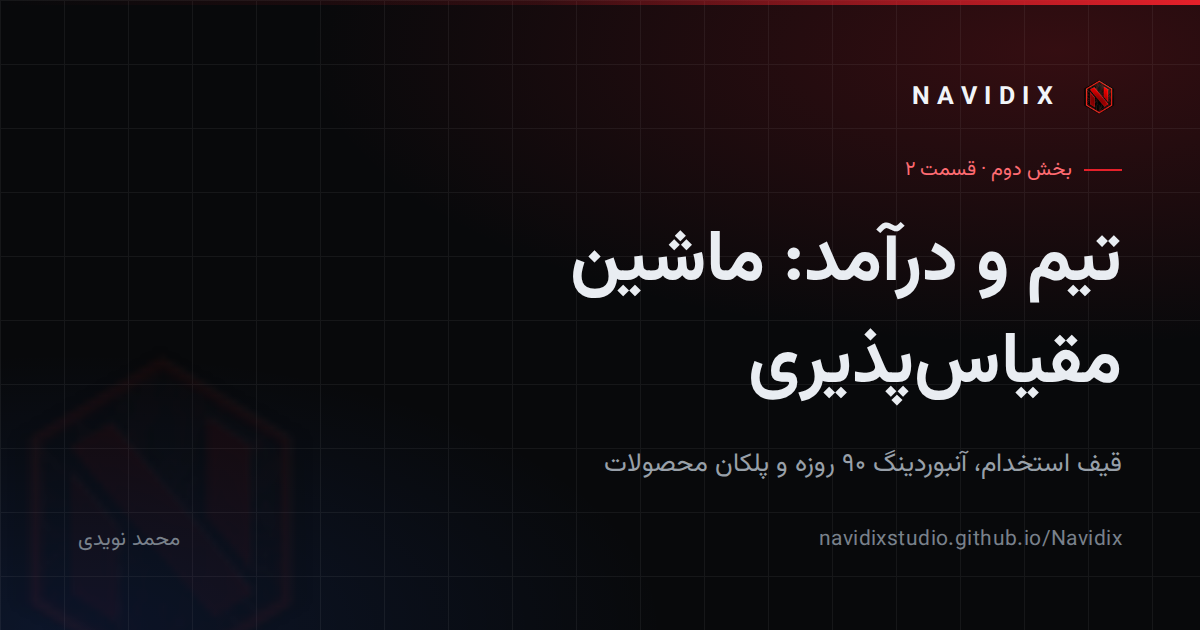
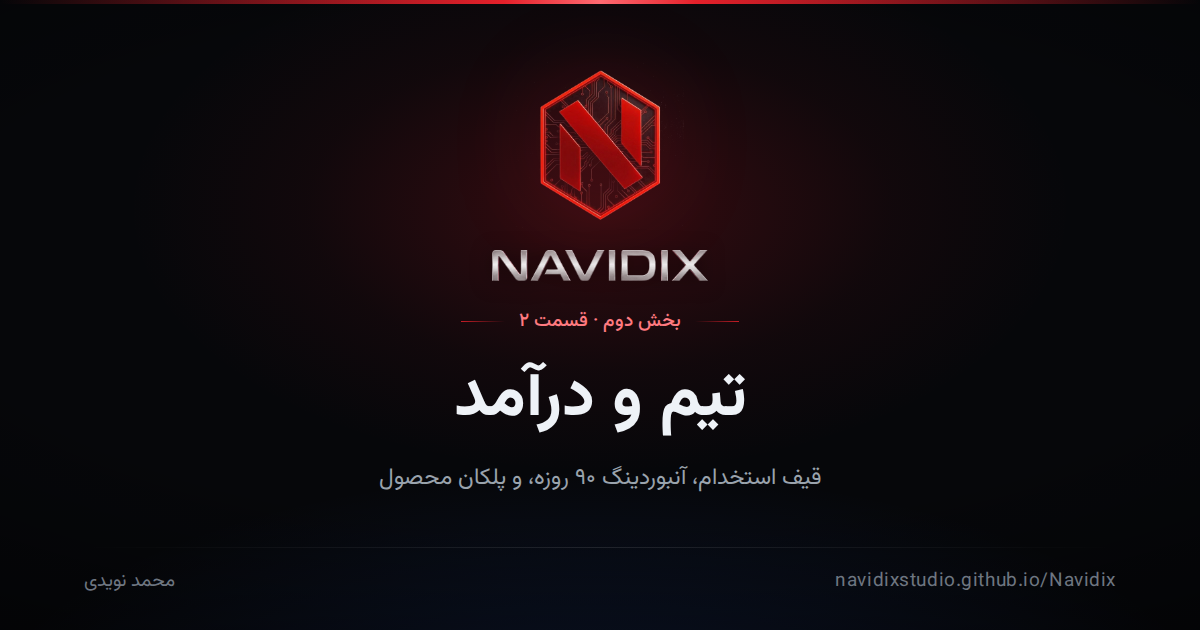
Rebuild the share card around the emblem, and tint the sky
Share card. The old card put a small mark in the corner; the emblem is the
strongest thing the brand owns, so it now carries the card — centred and
large, the logotype beneath it, the words last.

Both brand PNGs ship as glow-on-black with no alpha. Screen-blending them
onto the card lifted their dark ground into a visible rectangle around each
one, so they are instead converted once to real transparency: alpha taken
from the brightest channel, colour un-premultiplied by it so nothing turns
muddy, and the dead margin cropped away — which also means the lockup is
spaced from the artwork rather than from the PNG's padding. The generator
asserts the text block keeps clear of the footer rule, so a long title can
no longer quietly collide with it.

Copy: the home card and its preview text now lead with what the studio
makes rather than restating its name.

Sky. The field already had a red tier, but it was washed toward white and
sat at 2.2%, and point size is divided by distance in the shader — so a
tinted star under about aSize 4 landed sub-pixel and its hue never reached
the screen. Measuring the buffer directly: zero ember stars were drawing
above 1.5px, and eleven blue ones.

So the fix is not more stars. Roughly one star in twenty is now a saturated
ember and one in twenty a deep blue, and rather than lifting all of them —
which would only add coloured noise — about one in six of those is promoted
[…]

diff --git a/index.html b/index.html
@@ -4,7 +4,7 @@
 <meta charset="utf-8" />
 <meta name="viewport" content="width=device-width, initial-scale=1, viewport-fit=cover" />
 <title>NAVIDIX</title>
-<meta name="description" content="Navidix — رسانه مستقل علم و فناوری. مستندهای سینمایی کوتاه و آموزشهای کاربردی هوش مصنوعی به زبان فارسی. ساخته و توسعهیافته توسط محمد نویدی." />
+<meta name="description" content="Navidix — مستندهای سینمایی کوتاه دربارهی علم، فناوری، تاریخ و فضا — و آموزش میدانی هوش مصنوعی کاربردی به فارسی: آنچه در تولید واقعی جواب داد، با اعداد و منبع. ساختهی محمد نویدی." />
 <meta name="keywords" content="هوش مصنوعی, آموزش هوش مصنوعی, مستند علمی, تولید ویدیو با هوش مصنوعی, پرامپت, Navidix" />
 <link rel="canonical" href="https://navidixstudio.github.io/Navidix/" />
 <meta name="robots" content="index, follow, max-image-preview:large" />
@@ -15,8 +15,8 @@
[2 lines of base64/hex data omitted]
 
-<meta property="og:title" content="NAVIDIX" />
-<meta property="og:description" content="رسانه مستقل علم و فناوری. مستندهای سینمایی کوتاه و آموزشهای کاربردی هوش مصنوعی به زبان فارسی." />
+<meta property="og:title" content="Navidix — علم، در قابِ سینما" />
+<meta property="og:description" content="مستندهای سینمایی کوتاه دربارهی علم، فناوری، تاریخ و فضا — و آموزش میدانی هوش مصنوعی کاربردی به فارسی: آنچه در تولید واقعی جواب داد، با اعداد و منبع. ساختهی محمد نویدی." />
 <meta property="og:type" content="website" />
 <meta property="og:url" content="https://navidixstudio.github.io/Navidix/" />
 <meta property="og:locale" content="fa_IR" />
@@ -952,14 +952,27 @@ function buildStarfield(scene){
     pos[i*3+1] = r*Math.sin(ph)*Math.sin(th)*0.7;
     pos[i*3+2] = r*Math.cos(ph);
 
+    /* Most of the field stays near-white on purpose — colour only reads as
+       colour when it is the exception. About one star in twenty is a
+       saturated ember, one in twenty a deep blue; the rest run from warm
+       white through the pale ion tone. */
     const t = Math.random();
-    if (t > .978)      tmp.copy(cRed).lerp(cWarm,.25);   // rare red giants
-    else if (t > .90)  tmp.copy(cWarm);
-    else if (t > .52)  tmp.copy(cIon);
-    else               tmp.copy(cBlue).lerp(cIon, Math.random());
+    let tinted = false;
+    if      (t > .952){ tmp.copy(cRed).lerp(cWarm, .10); tinted = true; }   // ember
+    else if (t > .904){ tmp.copy(cBlue);                 tinted = true; }   // deep blue
+    else if (t > .836)  tmp.copy(cWarm);
+    else if (t > .480)  tmp.copy(cIon);
+    else                tmp.copy(cBlue).lerp(cIon, .35 + Math.random()*.65);
     col[i*3]=tmp.r; col[i*3+1]=tmp.g; col[i*3+2]=tmp.b;
 
-    const bright = Math.pow(Math.random(), 9);           // very few anchors
+    let bright = Math.pow(Math.random(), 9);             // very few anchors
+    /* Point size is divided by distance in the shader, so anything under
+       about aSize 4 lands sub-pixel out here and its hue never survives to
+       the screen. Rather than lift every tinted star — which would only add
+       coloured noise — roughly one in six is promoted into the visible band
+       and the rest stay as faint as their neighbours. That leaves a handful
+       of ember and blue anchors in view at any moment, not a field of them. */
+    if (tinted && Math.random() < .17) bright = .40 + Math.random() * .45;
     siz[i] = 0.5 + bright*10.0;
     spk[i] = bright > .34 ? Math.min(1, (bright-.34)*2.6) : 0.0;
     twk[i] = .12 + Math.random()*.85;

diff --git a/training.html b/training.html
@@ -4,7 +4,7 @@
 <meta charset="utf-8" />
 <meta name="viewport" content="width=device-width, initial-scale=1, viewport-fit=cover" />
 <title>آموزش هوش مصنوعی کاربردی | Navidix</title>
-<meta name="description" content="مجموعه آموزشهای فارسی هوش مصنوعی کاربردی: زبان دوربین، پروتکل تولید فیلم، ساخت پرامپت و تحلیل پروژههای واقعی. نوشته و توسعهیافته توسط محمد نویدی." />
+<meta name="description" content="آموزش فارسی هوش مصنوعی کاربردی در سه مسیر: تولید ویدیو و پرامپتنویسی، برند و ساخت محتوا، و پروندههای واقعی. پروتکلها و یادداشتهای میدانی از تولیدهای واقعی — آنچه جواب داد، و اعدادش چه بود." />
 <meta name="author" content="محمد نویدی" />
 <link rel="canonical" href="https://navidixstudio.github.io/Navidix/training.html" />
 <meta name="theme-color" content="#08090B" />
@@ -14,7 +14,7 @@
 <meta property="og:type" content="article" />
 <meta property="og:locale" content="fa_IR" />
 <meta property="og:title" content="آموزش هوش مصنوعی کاربردی | Navidix" />
-<meta property="og:description" content="مجموعه آموزشهای فارسی هوش مصنوعی کاربردی: زبان دوربین، پروتکل تولید فیلم، ساخت پرامپت و تحلیل پروژههای واقعی. نوشته و توسعهیافته توسط محمد نویدی." />
+<meta property="og:description" content="آموزش فارسی هوش مصنوعی کاربردی در سه مسیر: تولید ویدیو و پرامپتنویسی، برند و ساخت محتوا، و پروندههای واقعی. پروتکلها و یادداشتهای میدانی از تولیدهای واقعی — آنچه جواب داد، و اعدادش چه بود." />
 <meta property="og:url" content="https://navidixstudio.github.io/Navidix/training.html" />
 <meta property="og:image" content="https://navidixstudio.github.io/Navidix/og-training.png" />
 <meta property="og:image:secure_url" content="https://navidixstudio.github.io/Navidix/og-training.png" />
